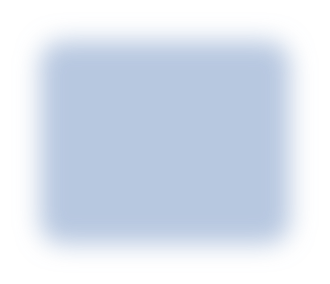
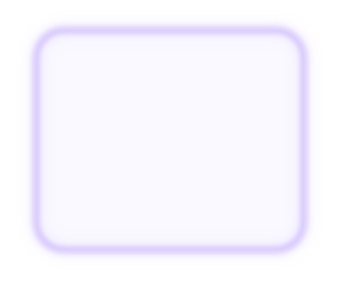
Implement Minimal Glass specification and folding pixel clock in 0.6.1
Use flat black/ivory canvases, shadow-free neutral glass, a narrow local brand rim and compact translucent settings. Add a one-shot low-resolution panel backdrop and fold only changed pixel glyphs. Record the owner's successful TV check for the strengthened light and clock.

diff --git a/FlixHome 2/app/js/main.js b/FlixHome 2/app/js/main.js
@@ -32,17 +32,31 @@
  ];
  var clockPaths=[],clockValues='',svgNS='http://www.w3.org/2000/svg';
  function matrixPath(value,size,gap){var path='';digits[Number(value)].forEach(function(row,y){row.split('').forEach(function(on,x){if(on==='1')path+='M'+(x*(size+gap))+' '+(y*(size+gap))+'h'+size+'v'+size+'h-'+size+'z';});});return path;}
+ function svgNode(tag,attrs){var n=document.createElementNS(svgNS,tag);Object.keys(attrs||{}).forEach(function(k){n.setAttribute(k,attrs[k]);});return n;}
  function makeClock(){
-  var svg=document.createElementNS(svgNS,'svg');svg.setAttribute('viewBox','0 0 625 145');svg.setAttribute('aria-hidden','true');
-  [0,110,250,360,492,558].forEach(function(x,i){var path=document.createElementNS(svgNS,'path');path.setAttribute('class','matrix-digit');path.setAttribute('transform','translate('+x+' '+(i<4?4:58)+')');svg.appendChild(path);clockPaths.push(path);});
-  [224,470].forEach(function(x,i){var path=document.createElementNS(svgNS,'path'),size=i?7:13,y=i?76:39;path.setAttribute('d','M'+x+' '+y+'h'+size+'v'+size+'h-'+size+'z M'+x+' '+(y+(i?29:48))+'h'+size+'v'+size+'h-'+size+'z');path.setAttribute('class','matrix-colon');svg.appendChild(path);});
+  var svg=svgNode('svg',{viewBox:'0 0 760 180','aria-hidden':'true'}),defs=svgNode('defs');svg.appendChild(defs);
+  [14,144,309,439,604,684].forEach(function(x,i){
+   var y=i<4?4:72,h=i<4?156:88,w=i<4?110:62,half=h/2,id='clock-'+i;
+   ['top','bottom'].forEach(function(part){var clip=svgNode('clipPath',{id:id+'-'+part});clip.appendChild(svgNode('rect',{x:0,y:part==='top'?0:half,width:w,height:half}));defs.appendChild(clip);});
+   var base=svgNode('path',{'class':'matrix-digit matrix-base',transform:'translate('+x+' '+y+')'});svg.appendChild(base);clockPaths.push(base);
+   var overlay=svgNode('g',{'class':'matrix-overlay',transform:'translate('+x+' '+y+')'}),oldBottom=svgNode('path',{'class':'matrix-old-bottom','clip-path':'url(#'+id+'-bottom)'});overlay.appendChild(oldBottom);
+   function leaf(part,cls){var pivot=svgNode('g',{transform:'translate(0 '+half+')'}),fold=svgNode('g',{'class':cls}),offset=svgNode('g',{transform:'translate(0 '+(-half)+')'}),path=svgNode('path',{'clip-path':'url(#'+id+'-'+part+')'});offset.appendChild(path);fold.appendChild(offset);pivot.appendChild(fold);overlay.appendChild(pivot);return path;}
+   var top=leaf('top','matrix-fold-top'),bottom=leaf('bottom','matrix-fold-bottom');svg.appendChild(overlay);base.flip={overlay:overlay,oldBottom:oldBottom,top:top,bottom:bottom,timer:null};
+  });
+  [282,577].forEach(function(x,i){var size=i?8:14,y=i?99:49;svg.appendChild(svgNode('path',{'class':'matrix-colon',d:'M'+x+' '+y+'h'+size+'v'+size+'h-'+size+'z M'+x+' '+(y+(i?33:57))+'h'+size+'v'+size+'h-'+size+'z'}));});
   $('clock').appendChild(svg);
+ }
+ function clockDigit(path,value,i,animate){
+  var next=matrixPath(value,i<4?18:10,i<4?5:3),previous=path.getAttribute('d'),flip=path.flip;path.setAttribute('d',next);
+  if(!animate||prefs.reduceMotion||!previous)return;
+  clearTimeout(flip.timer);flip.oldBottom.setAttribute('d',previous);flip.top.setAttribute('d',previous);flip.bottom.setAttribute('d',next);flip.overlay.classList.add('flipping');
+  flip.timer=setTimeout(function(){flip.overlay.classList.remove('flipping');},320);
  }
  function clock(){
   if(document.hidden)return;
   var d=new Date(),value=('0'+d.getHours()).slice(-2)+('0'+d.getMinutes()).slice(-2)+('0'+d.getSeconds()).slice(-2);
   if(!clockPaths.length)makeClock();
-  clockPaths.forEach(function(path,i){if(clockValues[i]!==value[i])path.setAttribute('d',matrixPath(value[i],i<4?15:8,i<4?4:3));});
+  clockPaths.forEach(function(path,i){if(clockValues[i]!==value[i])clockDigit(path,value[i],i,clockValues.length===6);});
   clockValues=value;$('clock').setAttribute('aria-label',value.slice(0,2)+':'+value.slice(2,4)+':'+value.slice(4));
   var date=d.toLocaleDateString('de-DE',{weekday:'long',day:'numeric',month:'long'});if($('date').textContent!==date)$('date').textContent=date;
  }
@@ -102,12 +116,27 @@
   index=Math.max(0,Math.min(index,ns.length-1));if(ns[index]){ns[index].classList.add('focused');ns[index].setAttribute('data-focused','true');}
   var row=section===1?Math.floor(index/6):0;$('tiles').style.transform='translateY('+(-row*252)+'px)';
  }
+ // Sample only the panel area into a tiny canvas once on opening. Upscaling
+ // softens the snapshot without a live backdrop-filter or a continuous render loop.
+ function panelBackdrop(){
+  var old=$('dialog').querySelector('.panel-backdrop');if(old)old.parentNode.removeChild(old);
+  var panel=$('dialog'),box=panel.getBoundingClientRect(),stage=$('stage').getBoundingClientRect(),scale=stage.width/1920;
+  var left=(box.left-stage.left)/scale,top=(box.top-stage.top)/scale,w=box.width/scale,h=box.height/scale;
+  var canvas=el('canvas','panel-backdrop');canvas.setAttribute('aria-hidden','true');canvas.width=Math.ceil(w/16);canvas.height=Math.ceil(h/16);
+  var ctx=canvas.getContext('2d');ctx.scale(canvas.width/w,canvas.height/h);ctx.fillStyle=prefs.theme==='light'?'#f3efe6':'#000';ctx.fillRect(0,0,w,h);ctx.globalAlpha=.28;
+  function rect(node){var r=node.getBoundingClientRect();return {x:(r.left-stage.left)/scale-left,y:(r.top-stage.top)/scale-top,w:r.width/scale,h:r.height/scale};}
+  function text(node){var r=rect(node),style=window.getComputedStyle(node),size=parseFloat(style.fontSize);ctx.fillStyle=style.color;ctx.font=style.fontWeight+' '+size+'px Arial';ctx.textAlign='left';ctx.fillText(node.textContent,r.x,r.y+size,r.w);}
+  var images=$('tiles').querySelectorAll('img');for(var j=0;j<images.length;j++){var image=images[j],r=rect(image);if(image.complete&&image.naturalWidth&&window.getComputedStyle(image).opacity!=='0'){try{ctx.globalAlpha=.28*Number(window.getComputedStyle(image).opacity);ctx.drawImage(image,r.x,r.y,r.w,r.h);}catch(e){}}}ctx.globalAlpha=.28;
+  var labels=document.querySelectorAll('.label,#date,#heading,#sources h2,.input-name,.input small');for(var k=0;k<labels.length;k++)text(labels[k]);
+  if(window.Path2D){var cr=rect($('clock'));ctx.save();ctx.translate(cr.x,cr.y);ctx.fillStyle=window.getComputedStyle($('clock')).color;var paths=$('clock').querySelectorAll('.matrix-base,.matrix-colon');for(var n=0;n<paths.length;n++){ctx.save();var tr=(paths[n].getAttribute('transform')||'').match(/translate\(([-.0-9]+) ([-.0-9]+)\)/);if(tr)ctx.translate(Number(tr[1]),Number(tr[2]));try{ctx.fill(new Path2D(paths[n].getAttribute('d')));}catch(e){}ctx.restore();}ctx.restore();}
+  panel.insertBefore(canvas,panel.firstChild);
+ }
  function openMenu(title,options){menu={options:options,index:0};$('dialog-title').textContent=title;$('options').textContent='';options.forEach(function(o,i){var b=el('button','option');var label=o[0],detail='';
    if(title==='Einstellungen'){
-    if(i===0){label='Darstellung';detail=prefs.theme==='light'?'Hell':'Dunkel';}
-    if(i===2)label='TV-Einstellungen';
-    if(i===3)label='Eingangsquellen';
-    if(i===4){label='Animationen';detail=prefs.reduceMotion?'Reduziert':'Sanft';}
+    if(i===0){label='Darstellung';detail=prefs.theme==='light'?'Hell → Dunkel':'Dunkel → Hell';}
+    if(i===2)label='TV-Einstellungen über Samsung Home';
+    if(i===3)label='Quellen öffnen';
+    if(i===4){label='Animationen';detail=prefs.reduceMotion?'Reduziert':'Klappuhr';}
     if(i===5){label='Kachellicht';detail=prefs.glow?'Ein':'Aus';}
     if(i===1||i===4||i===6)b.classList.add('group-start');
    }
@@ -117,7 +146,7 @@
    }
    b.appendChild(el('span','option-name',label));
    if(detail)b.appendChild(el('span','option-detail',detail));
-   b.setAttribute('aria-label',label+(detail?', '+detail:''));b.onclick=function(){menu.index=i;choose();};$('options').appendChild(b);});$('modal').classList.remove('hidden');focus();}
+   b.setAttribute('aria-label',label+(detail?', '+detail:''));b.onclick=function(){menu.index=i;choose();};$('options').appendChild(b);});$('modal').classList.remove('hidden');focus();panelBackdrop();}
  function closeMenu(){menu=null;$('modal').classList.add('hidden');focus();}
  function choose(){var fn=menu.options[menu.index][1];closeMenu();fn();}
  function move(id,delta){var p=prefs.order.indexOf(id),q=p+delta;if(p<0||q<0||q>=prefs.order.length){toast('Hier ist der Rand der Favoriten.');return;}prefs.order.splice(p,1);prefs.order.splice(q,0,id);save();index=q;render();}

diff --git a/FlixHome 2/app/style.css b/FlixHome 2/app/style.css
@@ -1,4 +1,4 @@
-/* Flix Home 0.5.3 — translucent layers, composited focus fades. */
+/* Flix Home 0.6.1 — translucent layers, composited focus fades. */
 * { box-sizing:border-box; }
 html,body { margin:0;width:100%;height:100%;overflow:hidden;background:#15191e;font-family:'SamsungOne','Helvetica Neue',Arial,sans-serif;cursor:none; }
 button { font:inherit;color:inherit;border:0;cursor:inherit;outline:0; }
@@ -64,18 +64,65 @@ footer { position:absolute;left:126px;right:126px;bottom:48px;display:flex;justi
 .option-detail { color:var(--muted);font-size:22px;padding-left:28px;white-space:nowrap; }
 #toast { position:absolute;z-index:20;left:360px;right:360px;bottom:142px;padding:24px;border:1px solid var(--rim);border-radius:24px;background:var(--elevated);color:var(--text);box-shadow:0 10px 28px var(--shadow);font-size:25px;text-align:center; }
 .empty-state { padding:24px;font-size:28px; }.no-glow .tile-glow { display:none; }
-/* Only opacity and the small switch thumb animate; focus itself is immediate.
-   No live blur, animated shadows, global colour motion or animation queues. */
-.tile-glow,.surface,.app:after { transition:opacity 160ms cubic-bezier(.2,.65,.3,1); }
-.mode-selection { transition:transform 180ms cubic-bezier(.2,.65,.3,1); }
-.nav-label { transition:opacity 140ms ease-out; }
-#modal:not(.hidden) #dialog { animation:dialog-in 160ms ease-out both; }
-@keyframes dialog-in { from { opacity:0;transform:translateY(7px); } to { opacity:1;transform:translateY(0); } }
-.reduce-motion .tile-glow,.reduce-motion .surface,.reduce-motion .app:after,.reduce-motion .mode-selection,.reduce-motion .nav-label { transition:none; }
-.reduce-motion #dialog { animation:none!important; }
-@media (prefers-reduced-motion:reduce) { .tile-glow,.surface,.app:after,.mode-selection,.nav-label {transition:none!important} #dialog{animation:none!important} }
-
+/* 0.6.1 static focus review: no animation or queued transitions. */
 /* Brand accents remain local to the selected card. */
 .app[data-brand="youtube"]{--app-accent:#ff6a50}.app[data-brand="netflix"]{--app-accent:#e45b61}.app[data-brand="primevideo"]{--app-accent:#55b7e1}.app[data-brand="disneyplus"]{--app-accent:#72bdde}.app[data-brand="max"]{--app-accent:#b08bdc}.app[data-brand="twitch"]{--app-accent:#b28eea}
 .light .app[data-brand="primevideo"]{--app-accent:#2886aa}.light .app[data-brand="disneyplus"]{--app-accent:#476e9c}.light .app[data-brand="max"],.light .app[data-brand="twitch"]{--app-accent:#8854ae}
 .option-icon{width:30px;height:30px;margin-right:24px;flex-shrink:0;color:var(--muted)}.option-name{flex:1}.option-detail{flex-shrink:0}
+
+/* Final Minimal Glass specification: one flat canvas and a single local focus. */
+#stage { --text:#f5f2ec;--muted:#c1bdb7;--subtle:#97928b;--surface:rgba(255,255,255,.035);--elevated:rgba(20,20,22,.50);--rim:rgba(255,255,255,.20);--focus:#e7ddca;--focus-fill:rgba(255,255,255,.065);--overlay:rgba(0,0,0,.10);--inner:rgba(255,255,255,.05); }
+#stage.light { --text:#302b25;--muted:#625d56;--subtle:#777169;--surface:rgba(255,255,255,.30);--elevated:rgba(255,255,255,.45);--rim:rgba(255,255,255,.65);--focus:#9b8057;--focus-fill:rgba(255,255,255,.30);--overlay:rgba(48,43,37,.045);--inner:rgba(255,255,255,.20); }
+header { left:580px; }
+#clock { color:#f5f2ec; }.light #clock { color:#312c26; }
+.matrix-digit,.matrix-colon { stroke:none; }
+#toolbar,.input { background:var(--surface);box-shadow:inset 0 1px 0 var(--inner); }
+#toolbar { border-color:var(--rim); }
+#content { left:56px;top:384px;width:1808px; }
+h1 { font-size:28px; }
+#viewport { width:1808px; }
+#tiles { width:1728px; }
+.app { width:268px;margin-right:20px; }
+.surface { width:292px; }
+.tile-glow { width:340px; }
+.logo-inner { width:268px; }
+.label { left:0;right:0;font-weight:400; }
+.app.focused .label { font-weight:500; }
+.app:after { width:268px;box-shadow:inset 0 0 0 1.5px var(--app-accent,var(--focus)); }
+.app.focused .tile-glow,.light .app.focused .tile-glow { opacity:1; }
+.app[data-brand="youtube"]{--app-accent:#ff3b30}.app[data-brand="netflix"]{--app-accent:#e50914}.app[data-brand="primevideo"]{--app-accent:#00a8e1}.app[data-brand="disneyplus"]{--app-accent:#3d8bff}.app[data-brand="max"]{--app-accent:#8b5cf6}.app[data-brand="twitch"]{--app-accent:#9146ff}
+.light .app[data-brand="primevideo"]{--app-accent:#0086b4}.light .app[data-brand="disneyplus"]{--app-accent:#377acb}.light .app[data-brand="max"],.light .app[data-brand="twitch"]{--app-accent:#8450cb}
+#sources { left:104px;top:808px;width:1712px; }
+.input { border-radius:43px; }
+.input.focused { background:var(--focus-fill);box-shadow:inset 0 0 0 1.5px var(--focus); }
+footer { left:104px;right:104px; }
+.pill.focused,.theme-switch.focused { box-shadow:inset 0 0 0 1.5px var(--focus); }
+.mode-selection { background:#f5f2ec;box-shadow:inset 0 0 0 1px rgba(255,255,255,.50); }
+.light .mode-selection { background:#fffcf5; }
+#dialog { width:760px;padding:28px;border-radius:28px;background:var(--elevated);border-color:var(--rim);box-shadow:inset 0 1px 0 var(--inner); }
+#dialog h2 { margin:0 8px 20px;font-size:32px;line-height:42px; }
+.option,.option.group-start { min-height:64px;height:64px;margin-top:8px;padding:14px 16px;border-radius:17px;border:1px solid rgba(255,255,255,.075);background:rgba(255,255,255,.025);font-size:24px;line-height:32px; }
+.light .option { background:rgba(255,255,255,.12);border-color:rgba(255,255,255,.35); }
+.option.focused { background:var(--focus-fill);box-shadow:inset 0 0 0 1px var(--focus);border-color:var(--focus); }
+.option-icon { width:26px;height:26px;margin-right:20px; }
+.option-detail { font-size:21px;padding-left:16px; }
+#toast { box-shadow:none;background:var(--elevated); }
+
+/* One low-resolution snapshot behind the glass panel, generated only on open. */
+#dialog { position:relative;overflow:hidden;background:none; }
+.panel-backdrop { position:absolute;inset:0;left:0;top:0;width:100%;height:100%;z-index:0;pointer-events:none; }
+#dialog:after { content:'';position:absolute;left:0;top:0;right:0;bottom:0;z-index:1;pointer-events:none;background:var(--elevated);box-shadow:inset 0 1px 0 var(--inner);border-radius:inherit; }
+#dialog h2,#options { position:relative;z-index:2; }
+
+/* Only changed pixel digits fold; card focus remains immediate and static. */
+.matrix-overlay { display:none;fill:currentColor; }
+.matrix-overlay.flipping { display:block; }
+.matrix-fold-top,.matrix-fold-bottom { transform-origin:0 0; }
+.flipping .matrix-fold-top { animation:pixel-fold-top 280ms ease-in both; }
+.flipping .matrix-fold-bottom { animation:pixel-fold-bottom 280ms ease-out both; }
+.flipping .matrix-old-bottom { animation:pixel-old-bottom 280ms steps(1,end) both; }
+@keyframes pixel-fold-top { 0%{transform:scaleY(1);opacity:1} 49%,100%{transform:scaleY(0);opacity:.5} }
+@keyframes pixel-fold-bottom { 0%,50%{transform:scaleY(0);opacity:.65} 100%{transform:scaleY(1);opacity:1} }
+@keyframes pixel-old-bottom { 0%,49%{opacity:1} 50%,100%{opacity:0} }
+.reduce-motion .matrix-overlay { display:none!important; }
+@media(prefers-reduced-motion:reduce){.matrix-overlay{display:none!important}}

diff --git a/FlixHome 2/README.md b/FlixHome 2/README.md
@@ -1,73 +1,65 @@
 # Flix Home · experimental Tizen TV launcher
 
-A quiet, remote-first launcher for older Samsung Tizen TVs. Version 0.5.3 uses
-an actual fixed 5×7 square-pixel clock, separated transparent vector marks,
-subtle glass cards and local focus light. The full-screen scene does not
-change during app navigation. A two-label light/dark switch stays visible;
-the light palette is warm beige. Favorites can be sorted/hidden with the remote.
-No ads, feeds, remote servers or analytics. No continuously running PC is needed.
+Version **0.6.1** is a local, remote-first launcher for the Samsung UE43NU7409
+(2018). A large constructed square-pixel clock, flat black / warm ivory themes,
+minimal transparent glass tiles and one local brand-coloured focus rim.
+No ads, feeds, analytics or continuously running computer are needed.
 
-**This is a launchable TV app. Physical Home interception and reliable boot or
-standby autostart are not implemented. It is not a full replacement TV OS.**
-Samsung Home remains available from Settings and the physical remote.
+**Physical Home replacement and reliable cold-boot/standby autostart are not
+implemented. This remains a launchable app; Samsung Home is preserved.**
+
+## Current design
+
+- Flat backgrounds: #000000 dark and #F3EFE6 light. No gradients, horizon,
+  ground shadows, reflections, texture or global colour changes.
+- Fixed square-pixel SVG geometry; seconds are smaller. Only changed digits
+  perform a 280 ms two-phase folding movement, requested after the static pass.
+  Settings → Animationen toggles Klappuhr / Reduziert. Browser reduced-motion
+  preferences also suppress the folding overlay. Card focus remains immediate.
+- Quiet neutral glass, fine rims and no outer card shadows. A narrow precomputed
+  glow belongs only to the active card. No fading trail or multiple active glows.
+- Full transparent Disney+ and stacked HBO/max wordmarks; names inside cards.
+- A compact 760×688 settings panel with equal 64 px rows. Only its menu has focus
+  while open. A tiny canvas snapshot (48×43) is computed once per opening and
+  enlarged to soften the content behind the translucent panel. This snapshot is
+  a visual approximation, remains static until reopening, and uses no live blur
+  filter or continuous render loop. The real clock continues behind the overlay.
+
+![Home and settings in both themes — browser captures](docs/preview.jpg)
 
 ## Compatibility and evidence
 
-Development target: Samsung UE43NU7409 (2018), reported firmware
-T-KTM2DEUC-1360.0, Tizen 4.0 / ARMv7 confirmed via SDB. The code targets its old
-web engine: no ES modules, CSS grid, live backdrop blur or external fonts.
-Other TVs are untested; this repository does not remove any firmware guards.
+Target: Samsung UE43NU7409, firmware T-KTM2DEUC-1360.0, Tizen 4.0 / ARMv7
+confirmed via SDB. No ES modules, CSS grid, external fonts or live backdrop blur.
+Other models are untested; the installer guard is intentionally narrow.
 
-On the target, YouTube launch and Samsung Home return were physically confirmed.
-Both 0.5.0 and 0.5.1 were installed and launched successfully. The owner confirmed
-correct light/dark rendering and responsive navigation for 0.5.0, and correct
-rendering and responsive navigation again after the 0.5.1 refinement.
-This is subjective device validation, not a measured frame-rate claim.
+0.6.1 was signed, verified, installed and launched on this TV. After 0.6.0's
+focus light was reported too weak and the folding clock requested, the owner
+confirmed in 0.6.1 that both the visible tile light and folding digits work.
+Earlier builds also received physical confirmation for YouTube launching,
+Samsung Home return and responsive navigation in both themes. This is user
+validation, not a measured frame-rate benchmark.
 
-The 0.5.3 home and settings views were also captured and visually inspected at
-1920×1080 in a browser. Preview data is mocked; these images are not TV footage.
-The capture harness only disables preview scaling to keep full resolution.
-No missing images or live CSS filters were found in the inspected browser view.
-The 0.5.3 package was signed, verified, installed and launched on the same TV.
-The owner then confirmed that the full logos, removed diagonal stripe and
-pleasant transitions are correct on the TV (0.5.3). Browser recordings use timestamped
-screenshots (about 10 captured frames/s); they show navigation and are not a
-TV recording or a frame-rate benchmark.
+Browser QA at 1920×1080 covers both homes, both settings panels, and YouTube,
+Netflix, Prime Video and Twitch focus states. The flat scene assets each contain
+one colour. Exactly one card glow is visible; none remain active in a dialog.
+Clock folding was captured in intermediate states. Screenshots use mock apps
+and inputs and are **browser captures, not TV footage**. The capture harness
+only disables preview scaling to retain full resolution.
 
-HDMI switching to a connected source, physical Home replacement, cold boot and
-standby autostart remain unverified or unsupported. A settings launch callback
-previously returned success without visible settings, so that shortcut routes
-through Samsung Home. No root or service-menu access is required or provided.
+HDMI switching to a connected source remains unverified. A direct settings API
+callback previously reported success without opening a visible menu, so settings
+route through Samsung Home. No root, firmware changes or service disabling.
 
-## Preview
-
-Serve `app/` with any static HTTP server, for example:
+## Browser preview
 
 ```sh
 python3 -m http.server 8092 --bind 127.0.0.1 --directory app
 ```
 
-Open http://127.0.0.1:8092. A browser uses mock apps and inputs.
-Use arrow keys, Enter and Escape. On TV, use the remote's arrows, OK and Back.
-Hold OK to edit an app; The visible top-right switch always shows Hell and Dunkel; the selected half and keyboard focus have separate indicators. Settings also contains the toggle. Preferences
-stay in localStorage. Only changed matrix paths update once a second; digit size and spacing stay
-fixed. Focus updates immediately. Local light, reflection and rim opacity fade for 160 ms;
-the theme thumb moves for 180 ms and the settings panel enters gently for 160 ms.
-There is no spring, scale animation, live blur or moving background.
-Settings → Animationen switches between Sanft and Reduziert. Reduced motion
-disables these effects and browser prefers-reduced-motion is also respected.
-
-![Home and settings in both themes — browser preview](docs/preview.jpg)
-
-0.5.1 adds coloured transparent marks, labels inside the tiles, individual
-input pills with outline icons and connection indicators, and settings icons.
-0.5.3 uses the full Disney+ wordmark with its arc and a stacked HBO/max
-wordmark, with transparent backgrounds and theme-appropriate lettering.
-The diagonal tile reflection stripe has been removed.
-These are deliberate asset choices, not exact reproductions of every mockup.
-0.5.2 makes the tile artwork genuinely translucent, uses quiet edge highlights and
-translucent input/toolbar materials. Settings retain dense
-surfaces for legibility. The backgrounds and the pixel clock stay fixed.
+Open http://127.0.0.1:8092. Use arrows, Enter and Escape. Hold OK on TV to edit
+an app. Favorites can be sorted or hidden; preferences persist in localStorage.
+The visible Hell/Dunkel control distinguishes the selected mode from focus.
 
 ## Build and install on your own TV
 

diff --git a/FlixHome 2/DESIGN.md b/FlixHome 2/DESIGN.md
@@ -1,22 +1,33 @@
-# Material design, 0.5.2
+# Minimal Glass · Digital Retro · Ambient Focus — 0.6.1
 
-The reference review covered all 26 entries on the supplied inspiration board,
-then four user-prepared light/dark home/settings mockups. Reference images are
-not redistributed. Recurring ideas: warm ceramic light surfaces, smoked dark
-surfaces, fine rims, soft local illumination and clear layer separation.
+The latest user specification replaces earlier material experiments.
 
-- Background: one fixed full-screen image per theme.
-- Clock: fixed SVG paths from 5×7 square matrices, no enclosing panel.
-- Tiles: local precomputed glow, separate surface artwork, opaque transparent
-  logo and label. Only the selected tile receives a coloured focus rim.
-- Inputs: separate rounded pills, outline icons, readable connection status.
-- Settings: dense surfaces, grouped rows, icons and separate state labels.
-- Theme control: persistent Hell/Dunkel labels, selected thumb plus an
-  independent focus outline.
+| Layer | Dark | Light |
+|---|---|---|
+| Canvas | #000000 | #F3EFE6 |
+| Primary text | #F5F2EC | #302B25 |
+| Tile fill | white at 3.5% | white at 30% |
+| Neutral rim | white at 20% | white at 65% |
+| Settings material | rgba(20,20,22,.50) | white at 45% |
 
-Artwork is generated offline by tools/build-artwork.cjs; the TV does not run
-blur filters or a render loop. Navigation is immediate. Only local texture/rim opacity (160 ms), the theme
-thumb (180 ms) and panel entry (160 ms) animate. The material fill uses alpha
-so the underlying scene and card glow show through. Reduced motion disables
-transitions and panel entry. No continuously animated layers are used. The once-per-second clock updates only changed glyph paths.
-The TV runs locally without an external service or continuously running PC.
+The background is flat and immutable during navigation. All ordinary card drop
+shadows, broad pools, diagonal reflections and environmental effects are absent.
+Cards are 268×220 with 20 px gaps and 28 px radii; title, inputs and footer share
+an x=104 alignment. The pixel clock renders at native SVG coordinates with no
+background tile or stroke. Seconds are subordinate.
+
+One active card receives its own brand rim and narrow precomputed halo. Inactive
+cards retain neutral material. Opening a menu clears the card focus. The panel
+uses equal 64 px rows and neutral warm focus, with no app-coloured menu glows.
+A low-resolution one-shot canvas softens the panel's backing content; it is not
+a live blur and is refreshed only on opening. No continuous graphics loop.
+
+The initial 0.6.0 pass used static focus and clock. The owner then explicitly
+requested the folding clock again and reported the halo too weak on TV. 0.6.1
+strengthens the narrow halo and folds only changed pixel glyphs for 280 ms.
+Reduced motion disables that effect. No card scaling, spring, focus fade queue,
+background motion or full-screen colour animation is used.
+
+Reference images are not redistributed. Brand provenance is in
+app/ASSET-SOURCES.md. Browser previews are identified as such. Home-button
+interception, autostart and other TV system integration remain separate work.

diff --git a/FlixHome 2/REDDIT-DRAFT.md b/FlixHome 2/REDDIT-DRAFT.md
@@ -18,7 +18,7 @@ The idea was a quiet interface with big app tiles, a large pixel clock, beige/li
 
 The latest pass is closer to my mockups: coloured transparent logos, labels inside the tiles, separate input pills, warm beige and a nearly black dark mode. There is still work to do on the glass material, lighting and matching the references. The Disney+ and HBO Max marks have now been replaced with complete transparent wordmarks, and the diagonal reflection stripe has been removed.
 
-Performance has also been a problem. Earlier versions lagged badly with larger animated layers. Version 0.5.3 uses translucent pre-rendered glass textures, immediate focus changes and short local opacity fades. Reduced motion can be enabled in Settings. Both themes and responsive navigation have now been checked on my actual TV, but this is still an experimental project. Some visual checks and the demo recordings were done in a browser; those aren’t proof of TV performance.
+Performance has also been a problem. Earlier versions lagged badly with larger animated layers. Version 0.6.1 uses flat black/ivory backgrounds, minimal transparent glass and one narrow local focus light. The square-pixel clock folds changed digits, with reduced motion available. Both themes and responsive navigation have now been checked on my actual TV, but this is still an experimental project. Some visual checks and the demo recordings were done in a browser; those aren’t proof of TV performance.
 
 **What I wanted, but haven’t solved**
 
@@ -29,7 +29,7 @@ Performance has also been a problem. Earlier versions lagged badly with larger a
 
 **Where I’m stuck now**
 
-Codex helped get it running, but I’m going in circles trying to turn the references into a consistent design that this old web engine can actually render smoothly. The attached references are the target; I will include my own current TV recording to show where it is now. Short transitions are now implemented, but I want to keep navigation responsive on this old hardware.
+Codex helped get it running, but I’m going in circles trying to turn the references into a consistent design that this old web engine can actually render smoothly. The attached references are the target; I will include my own current TV recording to show where it is now. The latest TV check confirms the tile light and folding pixel clock, while Home/startup integration is still open.
 
 What would you change first? I’d appreciate honest design feedback, concrete CSS/SVG suggestions, or help with the Tizen-specific Home/startup limitations. If you’ve built something similar for an older Samsung TV, I’d love to hear what actually worked on your model.
 

diff --git a/README.md b/README.md
@@ -1,16 +1,17 @@
 # Flix Home
 
 Experimental, vibe-coded launcher for the Samsung UE43NU7409 (2018, Tizen 4.0).
-Version **0.5.3**: square-pixel clock, warm light / dark themes, translucent glass cards, transparent
-app marks and gentle local transitions. Verified on this particular TV.
+**0.6.1**: flat black / ivory themes, minimal glass, one local brand-coloured
+focus light and a folding square-pixel clock. Installed on the target TV; its
+owner confirmed the light and folding digits work.
 
-**Physical Home replacement and reliable boot/standby autostart are not implemented.**
+**Physical Home replacement and reliable boot/standby autostart remain open.**
 
-![Browser previews: home and settings in both themes](FlixHome%202/docs/preview.jpg)
+![Browser captures — home and settings in both themes](FlixHome%202/docs/preview.jpg)
 
-[Source, installation, rollback and limitations](FlixHome%202/README.md) ·
-[Reddit draft](FlixHome%202/REDDIT-DRAFT.md) ·
-[Licenses and credits](FlixHome%202/THIRD_PARTY_NOTICES.md)
+[Source, installation and rollback](FlixHome%202/README.md) ·
+[Design](FlixHome%202/DESIGN.md) · [Reddit draft](FlixHome%202/REDDIT-DRAFT.md) ·
+[Credits](FlixHome%202/THIRD_PARTY_NOTICES.md)
 
-Use your own Samsung certificates and package identity. No signing keys,
-private device profiles or signed device-specific packages are included.
+Use your own Samsung certificates and initialized package identity. Private
+keys, device profiles and signed device-specific packages are not included.
